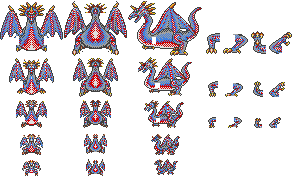
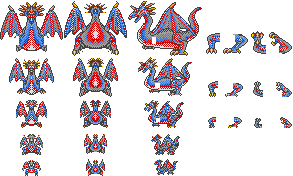
Big monster fixes

Changed region(s): [[0.9215, 0.1705, 1.0, 0.3125], [0.9215, 0.4545, 1.0, 0.5682], [0.9215, 0.6534, 1.0, 0.7386]]

diff --git a/graphicsCharacters.js b/graphicsCharacters.js
@@ -976,25 +976,27 @@ function grabMonster(m) {
             DISTANCE_1 = [],
             DISTANCE_2 = [],
             DISTANCE_3 = [],
-            DISTANCE_4 = []
+            DISTANCE_4 = [];
 
         DISTANCE_1.push(grabImageAt(spriteSheetIMG, 180, 1, 16, 21, false,32,0));
-        DISTANCE_1.push(grabImageAt(spriteSheetIMG, 206, 2, 14, 19, false));
+        DISTANCE_1.push(grabImageAt(spriteSheetIMG, 252, 7, 15, 9, false,20,0));
         DISTANCE_1.push(grabImageAt(spriteSheetIMG, 180, 1, 16, 21, true,32,0));
-        DISTANCE_1.push(grabImageAt(spriteSheetIMG, 206, 2, 14, 19, true));
-        DISTANCE_1.push(grabImageAt(spriteSheetIMG, 229, 0, 16, 21, false));
-        DISTANCE_1.push(grabImageAt(spriteSheetIMG, 229, 0, 16, 21, true));
-        DISTANCE_1.push(grabImageAt(spriteSheetIMG, 252, 7, 15, 9, false));
-        DISTANCE_1.push(grabImageAt(spriteSheetIMG, 252, 7, 15, 9, true));
+        DISTANCE_1.push(grabImageAt(spriteSheetIMG, 252, 7, 15, 9, false,20,0));
+        DISTANCE_1.push(grabImageAt(spriteSheetIMG, 229, 0, 16, 21, false,32,14));
+        DISTANCE_1.push(grabImageAt(spriteSheetIMG, 229, 0, 16, 21, true,32,14));
+        DISTANCE_1.push(grabImageAt(spriteSheetIMG, 206, 2, 14, 19, false,20,0));
+        DISTANCE_1.push(grabImageAt(spriteSheetIMG, 206, 2, 14, 19, false,20,0));
 
-        DISTANCE_2.push(grabImageAt(spriteSheetIMG, 183, 31, 10, 14, false));
-        DISTANCE_2.push(grabImageAt(spriteSheetIMG, 183, 31, 10, 14, true));
+        DISTANCE_2.push(grabImageAt(spriteSheetIMG, 183, 31, 10, 14, false,20,0));
         DISTANCE_2.push(grabImageAt(spriteSheetIMG, 205, 25, 16, 24, false));
+        DISTANCE_2.push(grabImageAt(spriteSheetIMG, 183, 31, 10, 14, true,19,0));
         DISTANCE_2.push(grabImageAt(spriteSheetIMG, 205, 25, 16, 24, true));
-        DISTANCE_2.push(grabImageAt(spriteSheetIMG, 232, 30, 10, 14, false));
-        DISTANCE_2.push(grabImageAt(spriteSheetIMG, 232, 30, 10, 14, true));
-        DISTANCE_2.push(grabImageAt(spriteSheetIMG, 255, 34, 9, 8, false));
-        DISTANCE_2.push(grabImageAt(spriteSheetIMG, 255, 34, 9, 8, true));
+        DISTANCE_2.push(grabImageAt(spriteSheetIMG, 232, 30, 10, 14, false,20,8));
+        DISTANCE_2.push(grabImageAt(spriteSheetIMG, 232, 30, 10, 14, true,20,8));
+        DISTANCE_2.push(grabImageAt(spriteSheetIMG, 255, 34, 9, 8, false,20,15));
+        DISTANCE_2.push(grabImageAt(spriteSheetIMG, 255, 34, 9, 8, true,20,15));
+
+        
 
         BODYPART.push(DISTANCE_1, DISTANCE_2);
         ImageArray.push(BODYPART);
@@ -1013,30 +1015,30 @@ function grabMonster(m) {
             DISTANCE_5 = [];
 
         DISTANCE_1.push(grabImageAt(spriteSheetIMG, 0, 2, 63, 50, false,0,5));
-        DISTANCE_1.push(grabImageAt(spriteSheetIMG, 64, 1, 63, 55, true,0,5));
-        DISTANCE_1.push(grabImageAt(spriteSheetIMG, 128, 1, 74, 55, false,0,5));
+        DISTANCE_1.push(grabImageAt(spriteSheetIMG, 128, 1, 74, 55, true,0,0));
         DISTANCE_1.push(grabImageAt(spriteSheetIMG, 64, 1, 63, 55, false,0,5));
-
+        DISTANCE_1.push(grabImageAt(spriteSheetIMG, 128, 1, 74, 55, false,0,0));
+        
         DISTANCE_2.push(grabImageAt(spriteSheetIMG, 9, 58, 45, 37, false,0,7));
         DISTANCE_2.push(grabImageAt(spriteSheetIMG, 138, 57, 54, 39, true,0,7));
         DISTANCE_2.push(grabImageAt(spriteSheetIMG, 73, 58, 45, 39, true,0,7));
         DISTANCE_2.push(grabImageAt(spriteSheetIMG, 138, 57, 54, 39, false,0,7));
 
         DISTANCE_3.push(grabImageAt(spriteSheetIMG, 16, 100, 31, 28, false));
+        DISTANCE_3.push(grabImageAt(spriteSheetIMG, 144, 100, 40, 28, false));
         DISTANCE_3.push(grabImageAt(spriteSheetIMG, 80, 100, 31, 28, true));
         DISTANCE_3.push(grabImageAt(spriteSheetIMG, 144, 100, 40, 28, false));
-        DISTANCE_3.push(grabImageAt(spriteSheetIMG, 80, 100, 31, 28, false));
-
+        
         DISTANCE_4.push(grabImageAt(spriteSheetIMG, 20, 134, 23, 21, false));
-        DISTANCE_4.push(grabImageAt(spriteSheetIMG, 84, 134, 23, 20, true));
         DISTANCE_4.push(grabImageAt(spriteSheetIMG, 151, 134, 29, 21, false));
         DISTANCE_4.push(grabImageAt(spriteSheetIMG, 84, 134, 23, 20, false));
-
+        DISTANCE_4.push(grabImageAt(spriteSheetIMG, 151, 134, 29, 21, false));
+        
         DISTANCE_5.push(grabImageAt(spriteSheetIMG, 22, 160, 19, 16, false));
-        DISTANCE_5.push(grabImageAt(spriteSheetIMG, 86, 159, 19, 17, true));
         DISTANCE_5.push(grabImageAt(spriteSheetIMG, 154, 159, 24, 16, false));
         DISTANCE_5.push(grabImageAt(spriteSheetIMG, 86, 159, 19, 17, false));
-
+        DISTANCE_5.push(grabImageAt(spriteSheetIMG, 154, 159, 24, 16, false));
+        
         BODYPART.push(DISTANCE_1, DISTANCE_2, DISTANCE_3, DISTANCE_4, DISTANCE_5);
         ImageArray.push(BODYPART);
 
@@ -1048,13 +1050,13 @@ function grabMonster(m) {
             DISTANCE_5 = [];
 
         DISTANCE_1.push(grabImageAt(spriteSheetIMG, 206, 33, 14, 21, false,38,0));
-        DISTANCE_1.push(grabImageAt(spriteSheetIMG, 223, 34, 25, 20, false));
+        DISTANCE_1.push(grabImageAt(spriteSheetIMG, 223, 34, 25, 20, true,29,0));
         DISTANCE_1.push(grabImageAt(spriteSheetIMG, 206, 33, 14, 21, true,40,0));
-        DISTANCE_1.push(grabImageAt(spriteSheetIMG, 223, 34, 25, 20, true));
-        DISTANCE_1.push(grabImageAt(spriteSheetIMG, 251, 31, 15, 23, false));
-        DISTANCE_1.push(grabImageAt(spriteSheetIMG, 269, 32, 23, 22, true));
-        DISTANCE_1.push(grabImageAt(spriteSheetIMG, 251, 31, 15, 23, false));
-        DISTANCE_1.push(grabImageAt(spriteSheetIMG, 269, 32, 23, 22, true));
+        DISTANCE_1.push(grabImageAt(spriteSheetIMG, 223, 34, 25, 20, false,29,0));
+        DISTANCE_1.push(grabImageAt(spriteSheetIMG, 251, 31, 15, 23, false,38,13));
+        DISTANCE_1.push(grabImageAt(spriteSheetIMG, 251, 31, 15, 23, true,38,13));
+        DISTANCE_1.push(grabImageAt(spriteSheetIMG, 269, 32, 23, 22, false,23,10));
+        DISTANCE_1.push(grabImageAt(spriteSheetIMG, 269, 32, 23, 22, true,23,10));
 
         DISTANCE_2.push(grabImageAt(spriteSheetIMG, 208, 81, 10, 16, false,23,3));
         DISTANCE_2.push(grabImageAt(spriteSheetIMG, 225, 83, 18, 14, true,20,7));
@@ -1062,17 +1064,17 @@ function grabMonster(m) {
         DISTANCE_2.push(grabImageAt(spriteSheetIMG, 225, 83, 18, 14, false,20,7));
         DISTANCE_2.push(grabImageAt(spriteSheetIMG, 253, 81, 10, 16, false,21,10));
         DISTANCE_2.push(grabImageAt(spriteSheetIMG, 253, 81, 10, 16, true,21,10));
-        DISTANCE_2.push(grabImageAt(spriteSheetIMG, 269, 82, 16, 15, true,0,15));
-        DISTANCE_2.push(grabImageAt(spriteSheetIMG, 269, 82, 16, 15, false,0,15));
+        DISTANCE_2.push(grabImageAt(spriteSheetIMG, 276, 82, 16, 15, false,20,15));
+        DISTANCE_2.push(grabImageAt(spriteSheetIMG, 276, 82, 16, 15, true,20,15));
 
-        DISTANCE_3.push(grabImageAt(spriteSheetIMG, 208, 117, 8, 11, false,10,0));
+        DISTANCE_3.push(grabImageAt(spriteSheetIMG, 208, 117, 8, 11, false,20,0));
+        DISTANCE_3.push(grabImageAt(spriteSheetIMG, 228, 117, 14, 11, true,20,0));
+        DISTANCE_3.push(grabImageAt(spriteSheetIMG, 208, 117, 8, 11, true,20,0));
         DISTANCE_3.push(grabImageAt(spriteSheetIMG, 228, 117, 14, 11, false,10,0));
-        DISTANCE_3.push(grabImageAt(spriteSheetIMG, 208, 117, 8, 11, true,10,0));
-        DISTANCE_3.push(grabImageAt(spriteSheetIMG, 228, 117, 14, 11, true,10,0));
         DISTANCE_3.push(grabImageAt(spriteSheetIMG, 254, 118, 8, 10, false,20,5));
         DISTANCE_3.push(grabImageAt(spriteSheetIMG, 254, 118, 8, 10, true,20,5));
-        DISTANCE_3.push(grabImageAt(spriteSheetIMG, 269, 117, 12, 11, false,10,0));
-        DISTANCE_3.push(grabImageAt(spriteSheetIMG, 269, 117, 12, 11, true,10,0));
+        DISTANCE_3.push(grabImageAt(spriteSheetIMG, 280, 117, 12, 11, false,10,5));
+        DISTANCE_3.push(grabImageAt(spriteSheetIMG, 280, 117, 12, 11, true,10,5));
 
         BODYPART.push(DISTANCE_1, DISTANCE_2, DISTANCE_3);
         ImageArray.push(BODYPART);
@@ -1145,17 +1147,17 @@ function grabMonster(m) {
         DISTANCE_1.push(grabImageAt(spriteSheetIMG, 110, 2, 14, 26, true,4,15));
         DISTANCE_1.push(grabImageAt(spriteSheetIMG, 128, 2, 16, 21, false,35,31));
         DISTANCE_1.push(grabImageAt(spriteSheetIMG, 128, 2, 16, 21, true,35,31));
-        DISTANCE_1.push(grabImageAt(spriteSheetIMG, 128, 2, 16, 21, false,5,31));
-        DISTANCE_1.push(grabImageAt(spriteSheetIMG, 128, 2, 16, 21, true,5,31));
+        DISTANCE_1.push(grabImageAt(spriteSheetIMG, 128, 2, 16, 21, false,19,32));
+        DISTANCE_1.push(grabImageAt(spriteSheetIMG, 128, 2, 16, 21, true,18,32));
 
         DISTANCE_2.push(grabImageAt(spriteSheetIMG, 112, 64, 10, 18, false,23,10));
         DISTANCE_2.push(grabImageAt(spriteSheetIMG, 112, 64, 10, 18, false,4,10));
         DISTANCE_2.push(grabImageAt(spriteSheetIMG, 112, 64, 10, 18, true,24,10));
         DISTANCE_2.push(grabImageAt(spriteSheetIMG, 112, 64, 10, 18, true,4,10));
-        DISTANCE_2.push(grabImageAt(spriteSheetIMG, 131, 64, 11, 15, false));
-        DISTANCE_2.push(grabImageAt(spriteSheetIMG, 131, 64, 11, 15, true));
-        DISTANCE_2.push(grabImageAt(spriteSheetIMG, 131, 64, 11, 15, false));
-        DISTANCE_2.push(grabImageAt(spriteSheetIMG, 131, 64, 11, 15, true));
+        DISTANCE_2.push(grabImageAt(spriteSheetIMG, 131, 64, 11, 15, false,24,22));
+        DISTANCE_2.push(grabImageAt(spriteSheetIMG, 131, 64, 11, 15, true,24,22));
+        DISTANCE_2.push(grabImageAt(spriteSheetIMG, 131, 64, 11, 15, false,10,24));
+        DISTANCE_2.push(grabImageAt(spriteSheetIMG, 131, 64, 11, 15, true,10,24));
 
         BODYPART.push(DISTANCE_1, DISTANCE_2);
         ImageArray.push(BODYPART);

diff --git a/monsters.js b/monsters.js
@@ -473,13 +473,13 @@ function initMonsters(t) {
 	if(t.id === TOWER_MOD0) {
         var testType = 107;
 		var max = monster[t.id].length;
-		monster[t.id][max] = new Monster(max, 0, 0, 106, t.id, 3, 12, 18, 2, CHAR_FRONT_SOLO, 0);
+		monster[t.id][max] = new Monster(max, 0, 0, 104, t.id, 3, 12, 18, 2, CHAR_FRONT_SOLO, 0);
 		max++;
 		monster[t.id][max] = new Monster(max, 3, 0, 102, t.id, 3, 14, 18, 2, CHAR_FRONT_LEFT, 999);
 		max++;
 		monster[t.id][max] = new Monster(max, 6, 0, 102, t.id, 3, 14, 18, 2, CHAR_FRONT_RIGHT, -999);
 		max++;
-		monster[t.id][max] = new Monster(max, 9, 0, 107, t.id, 3, 13, 20, 0, CHAR_FRONT_SOLO, 0);
+		monster[t.id][max] = new Monster(max, 9, 0, 105, t.id, 3, 13, 20, 0, CHAR_FRONT_SOLO, 0);
 		max++;
 //                monster[t.id][max] = new Monster(max, 12, 0, testType, t.id, 3, 12, 18, 3, CHAR_FRONT_LEFT, 0);
 //		max++;
